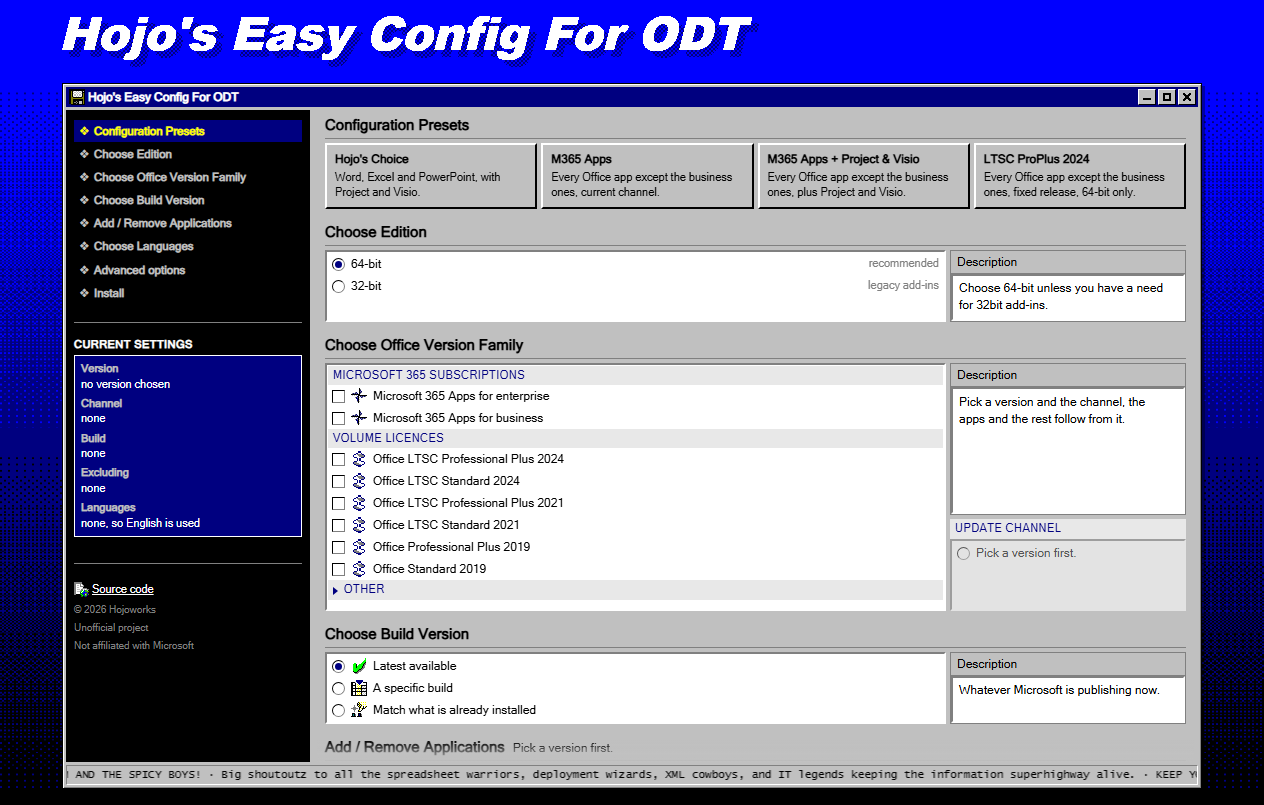
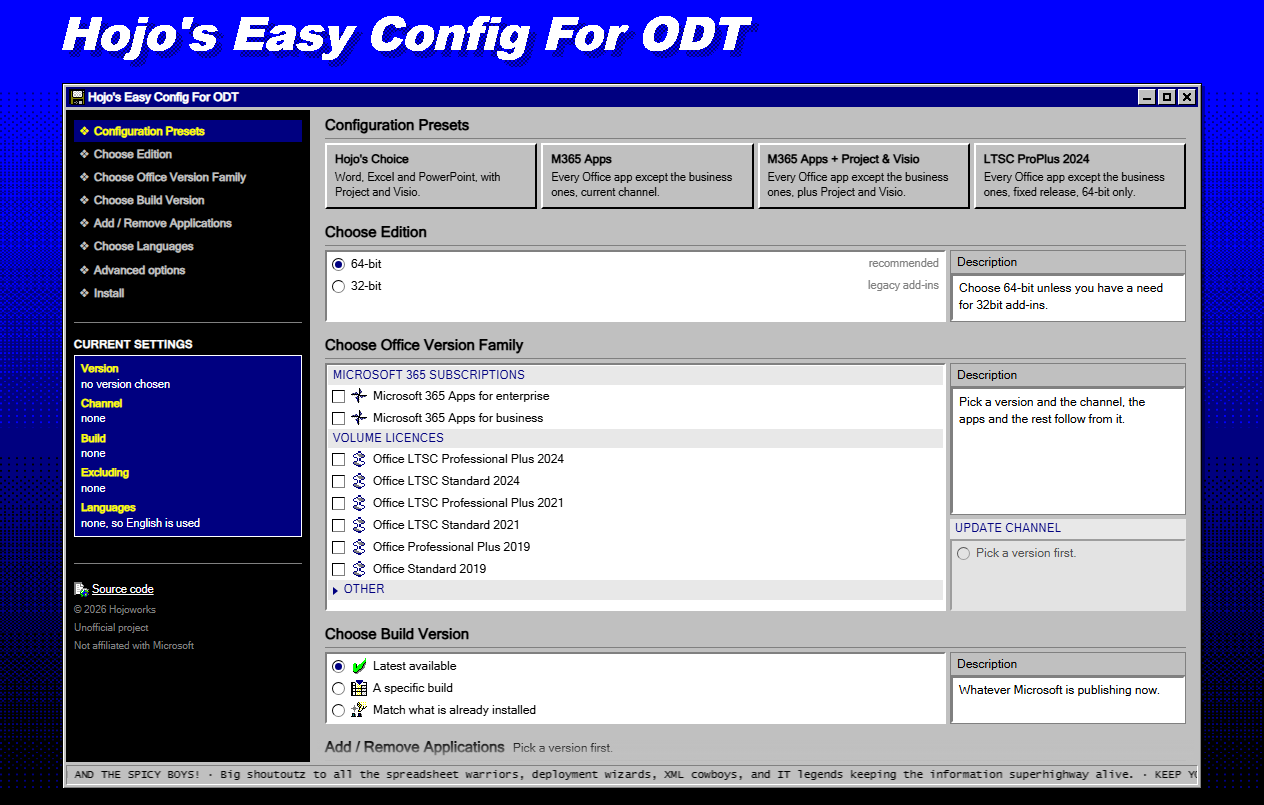
The settings well labels take the yellow the rail already uses for the current step, so a label and its value are two colours rather than two shades of white

diff --git a/site/rail.css b/site/rail.css
@@ -98,7 +98,9 @@
   background: var(--navy);
   border: 1px solid #ffffff;
 }
-.rail-settings dt { color: #c0c0c0; font-weight: 700; margin-top: 4px; }
+/* The labels take the yellow the rail already uses for the step you are on, so a
+   label and its value are never a shade apart: they are two colours. */
+.rail-settings dt { color: #ffff00; font-weight: 700; margin-top: 4px; }
 .rail-settings dd { margin: 0; color: #ffffff; word-break: break-word; }
 .rail-settings dt:first-child { margin-top: 0; }
 
